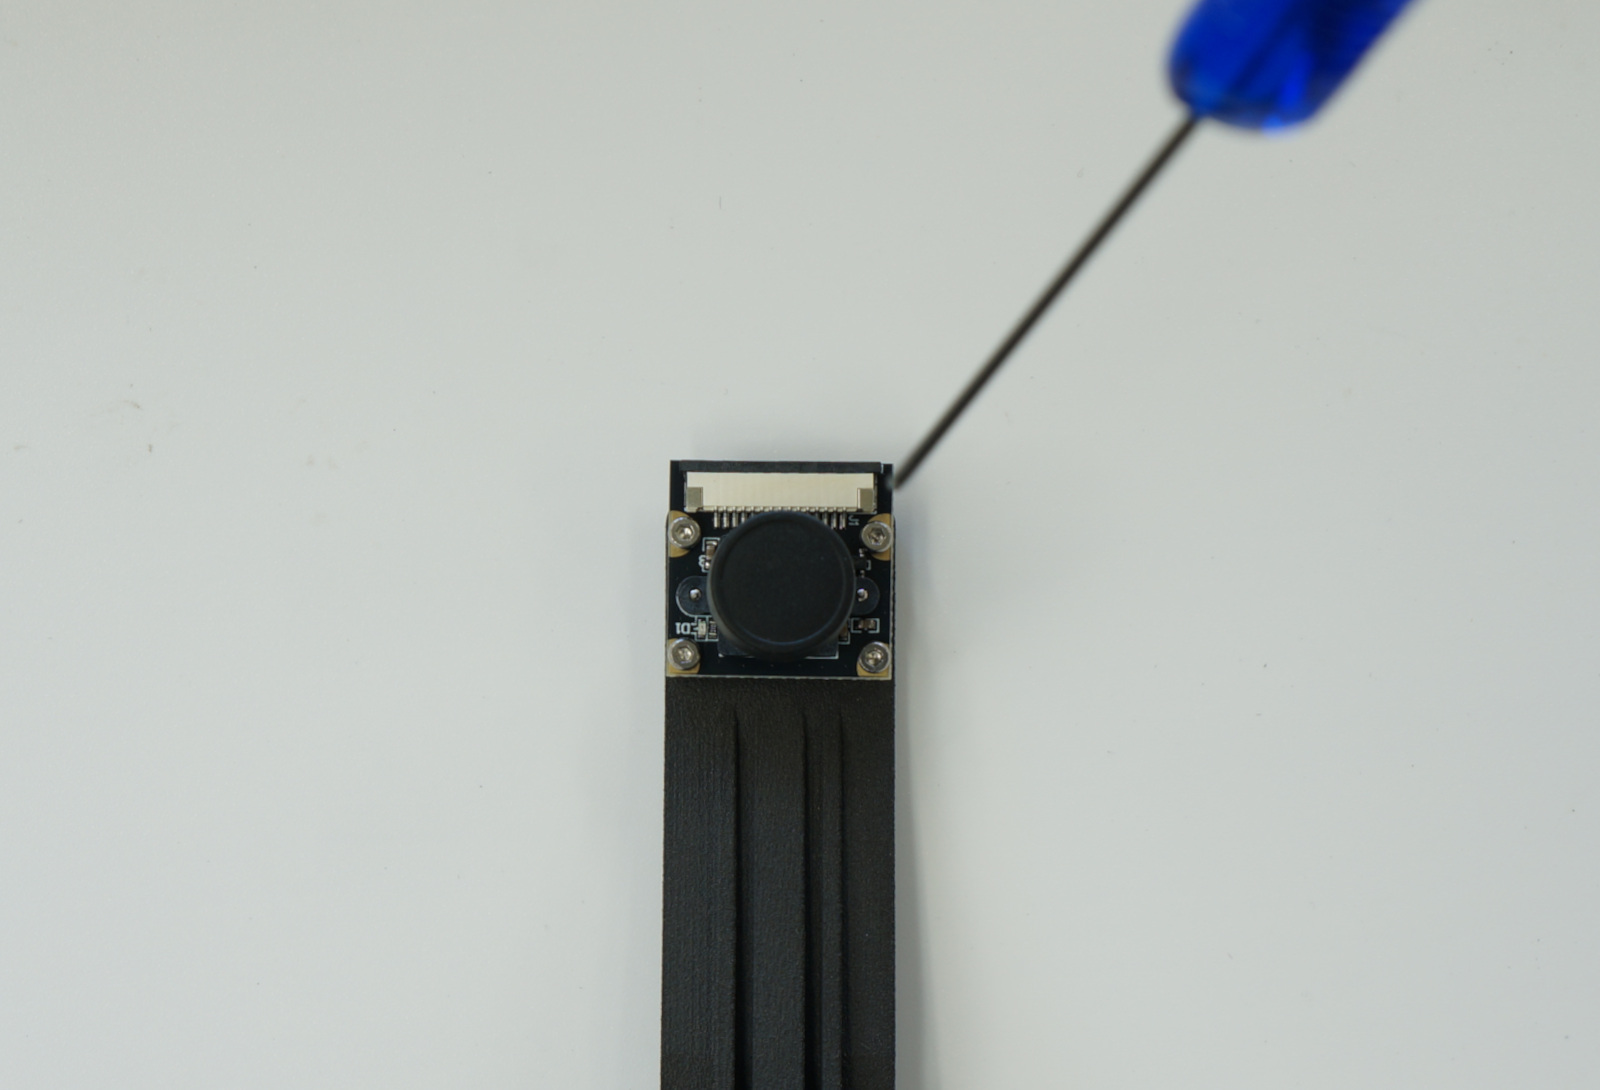
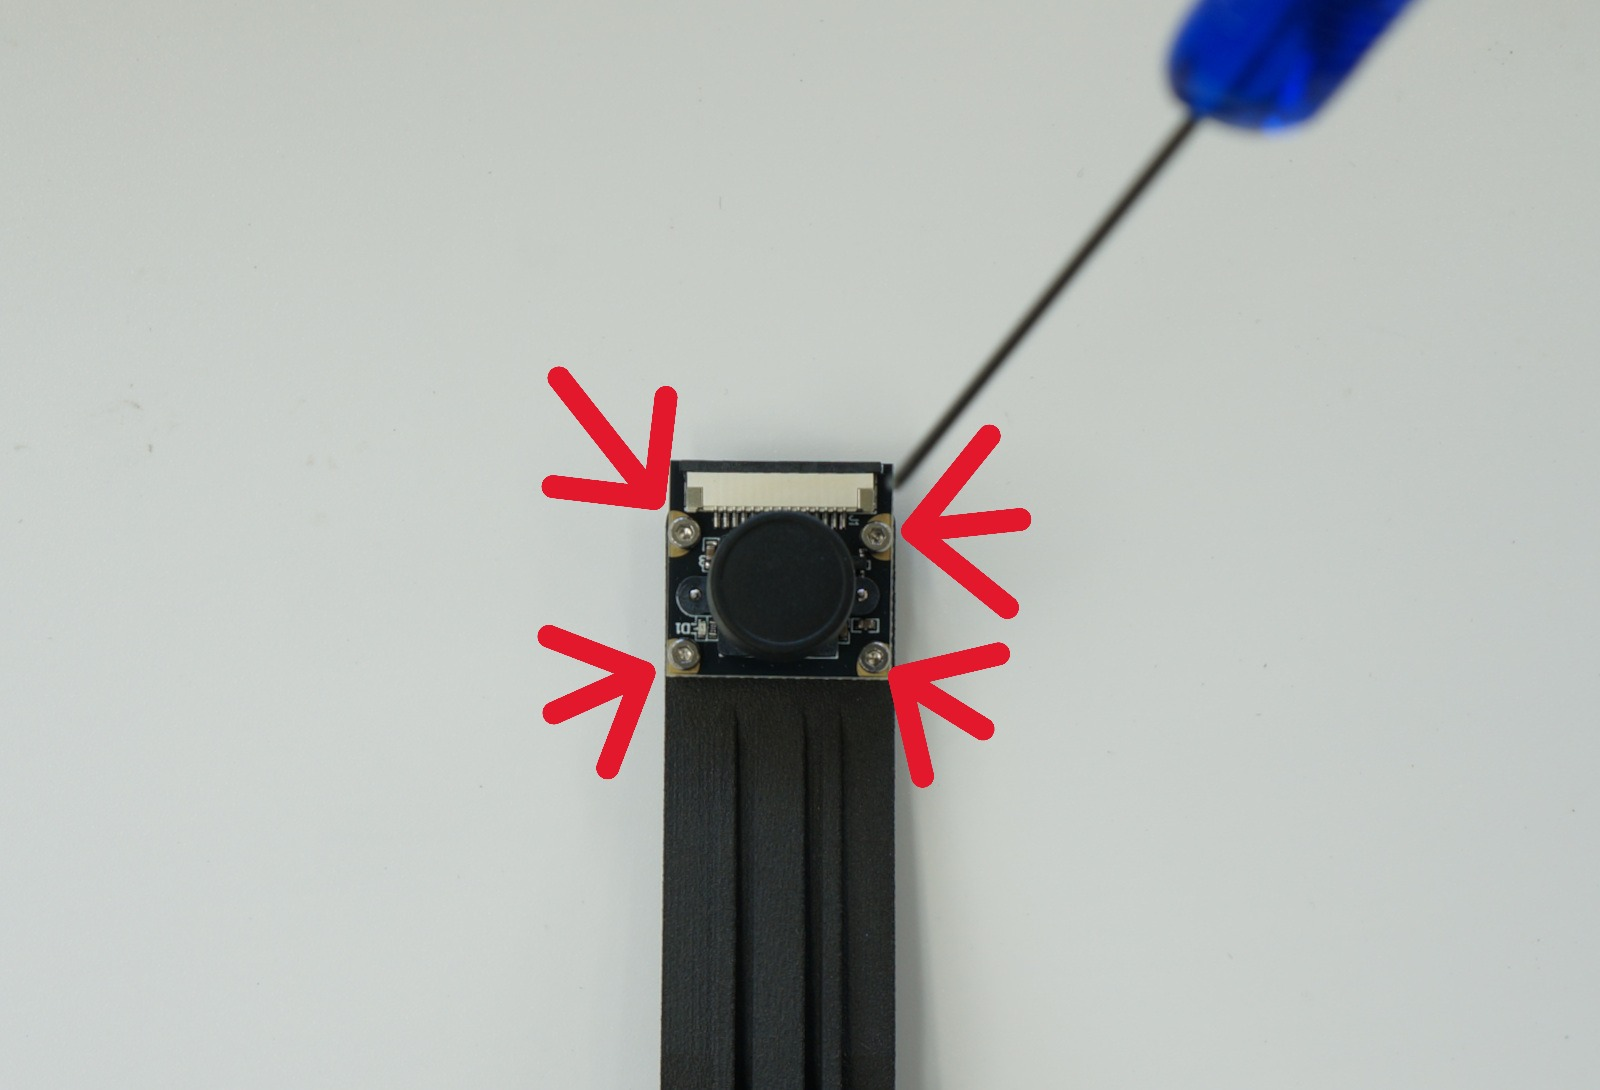
Deployed 2d227c1b with MkDocs version: 1.6.1

diff --git a/01.組み立て/basic_edition/02.build_Basic_JR2005_01/index.html b/01.組み立て/basic_edition/02.build_Basic_JR2005_01/index.html
@@ -1936,7 +1936,7 @@
 <p><img alt="" src="../../race_edition/img/001assy/XB003.JPG" /></p>
 <p><img alt="" src="../../race_edition/img/001assy/XB004.JPG" /></p>
 <p><img alt="" src="../../race_edition/img/001assy/XB005.JPG" /></p>
-<p>タッピングビスを計４本外します。</p>
+<p>タッピングビスを計４本外します。取り外したビスは後で使用します。</p>
 <p><img alt="" src="../../race_edition/img/001assy/XB006.JPG" /></p>
 <p>ねじを４本は後で使用します。</p>
 <p><img alt="" src="../../race_edition/img/001assy/XB007.JPG" /></p>
@@ -1944,12 +1944,13 @@
 <p><img alt="" src="../../race_edition/img/001assy/XB008.JPG" /></p>
 <p>受信機にある２つのコネクタを外します。バッテリーホルダーも取り除きます。</p>
 <p><img alt="" src="../img/001assy/BS000.JPG" /></p>
-<p>サーボの上にある両面テープで固定している受信機(TRU-08)を一旦取り外します。</p>
+<p>サーボの上にある両面テープで固定している受信機(TRU-08)を車体から一旦取り外します。</p>
 <h2 id="jetracer">JetRacerの組立て</h2>
 <p>※組み立て車両はTamiya TT-02 エキスパートビルドを使用しております。</p>
 <p><img alt="" src="../img/001assy/BS001.JPG" /></p>
 <p>六角ドライバーでタッピングビスでCSIカメラを固定します。</p>
 <p><img alt="" src="../img/001assy/BS003.JPG" /></p>
+<p>ビスを４か所取り付けます。</p>
 <p><img alt="" src="../img/001assy/BS002.JPG" /></p>
 <p>先ほど取り付けたカメラマウントとベース（カーボンプレート）バックマウント、なべねじM3XM3X12,ロック付きナット（黒） 各４個、皿ねじM３X14　４本,ロック付きナット（黒）　４本、ロック付きナット（ステンレス）を用意します。</p>
 <p><img alt="" src="../img/001assy/BS004.JPG" /></p>
@@ -1992,6 +1993,8 @@
 <p><img alt="" src="../img/001assy/BS058.JPG" /></p>
 <p>マジックバンドを通します。</p>
 <p><img alt="" src="../img/001assy/BS062.JPG" /></p>
+<p>モバイルバッテリーを載せ、さきほど取り付けたマジックバンドでモバイルバッテリーを固定します。</p>
+<p><img alt="" src="../img/001assy/BS063.JPG" /></p>
 <p>Jetson Orin Nano開発者ボードを車体に載せます。</p>
 <p>CSIカメラケーブルを接続します。黒い部分を引き※、CSIケーブルを挿します。幅が狭い方（２２ピン）がJetson側になります。（下接点）</p>
 <p>※コネクタは、とても弱い部分なので引きすぎないように注意して優しく引きます。破損にご注意ください。</p>
@@ -2017,11 +2020,13 @@
 <p><img alt="" src="../img/001assy/BS037.JPG" /></p>
 <p>取り外した受信機を取り付けます。両面テープを写真のように張ります。</p>
 <p><img alt="" src="../img/001assy/BS051.JPG" /></p>
+<p>各ケーブルを接続します。</p>
+<p><img alt="" src="../img/001assy/BS052.JPG" /></p>
 <p>受信機を載せて受信機を貼り付けます。フロントタイヤが当たらないことを確認します。</p>
 <p><img alt="" src="../img/001assy/BS050.JPG" /></p>
 <p>トリガーケーブルとUSBケーブルを接続します。</p>
 <p><img alt="" src="../img/001assy/BS038.JPG" /></p>
-<p>トリガーケーブルをJetson Orin NanoのDCジャックに接続します。Jetson Orin Nano Superに電源が入ります。起動して、しばらくするとOLEDディスプレイに文字が表示されるようになります。</p>
+<p>USBプラグの方をモバイルバッテリーのOUT1に接続、トリガーケーブルをJetson Orin NanoのDCジャックに接続します。Jetson Orin Nano Superに電源が入ります。起動して、しばらくするとOLEDディスプレイに文字が表示されるようになります。</p>
 <p><img alt="" src="../img/001assy/BS039.JPG" /></p>
 <p>作業台の上に置き、RCカーのニッカドバッテリーをRCカーに接続します。</p>
 <p><img alt="" src="../img/001assy/BS040.JPG" /></p>
